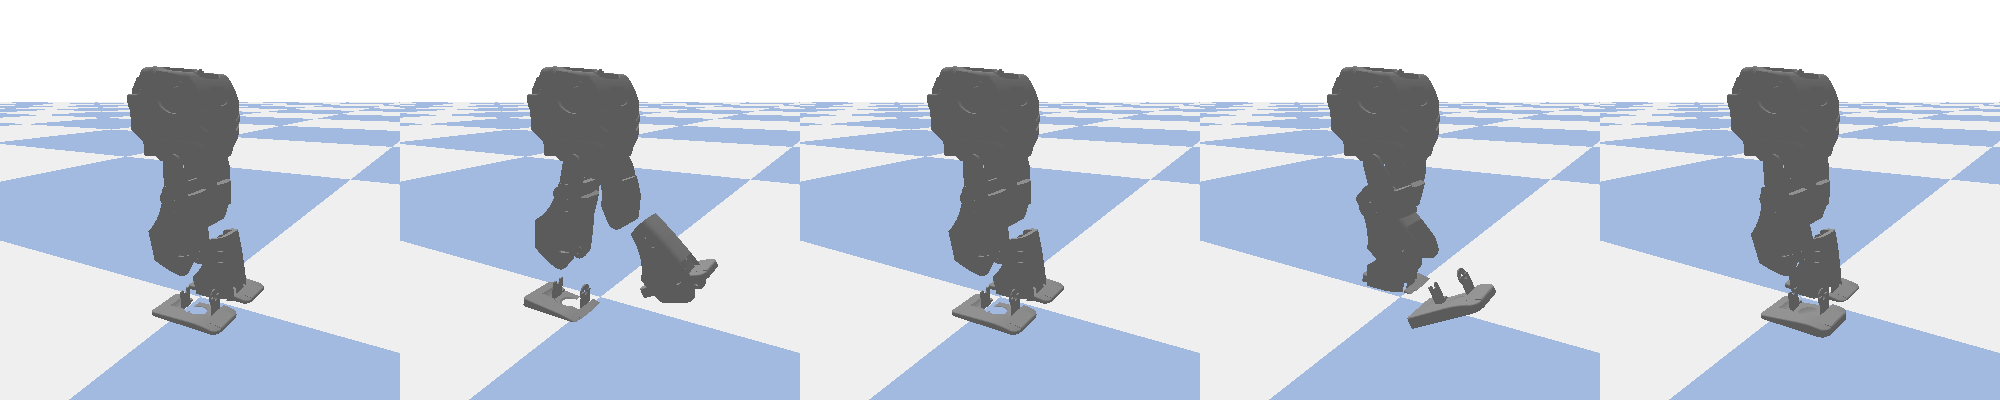
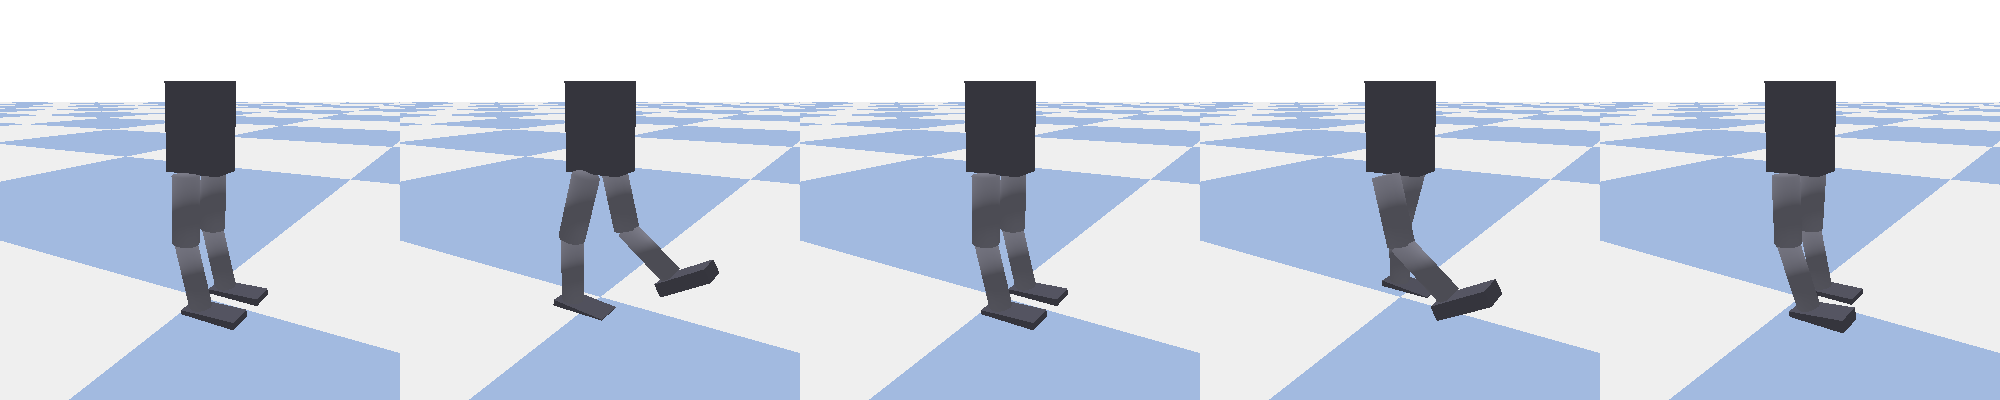
feat: 创建干净外观的URDF模型
- 新建 simple_walking_robot_clean.urdf，使用基础几何体
- 躯干：Box (0.08x0.05x0.12)
- 大腿/小腿：Cylinder
- 脚掌：Box
- 解决原始mesh有洞的问题
- 外观干净整洁，行走动作正常

diff --git a/scripts/debug_colored.py b/scripts/debug_colored.py
@@ -1,0 +1,129 @@
+#!/usr/bin/env python3
+"""
+给机器人每个部件加不同颜色，诊断mesh位置问题
+"""
+import pybullet as p
+import pybullet_data
+import os
+import tempfile
+import numpy as np
+from PIL import Image
+
+PROJECT_ROOT = "/home/vickyleu/ros2_ws/src/ROS2_Walking_Pattern_Generator"
+URDF_FILE = os.path.join(PROJECT_ROOT, "robot_description/models/robotis_op2/urdf/simple_working_robot.urdf")
+OUTPUT_DIR = os.path.join(PROJECT_ROOT, "Records/screenshots")
+
+# 每个link的颜色 (RGBA)
+LINK_COLORS = {
+    'body_link': [1, 0, 0, 1],       # 红色 - 躯干
+    'l_thigh_link': [0, 1, 0, 1],    # 绿色 - 左大腿
+    'l_shin_link': [0, 0, 1, 1],     # 蓝色 - 左小腿
+    'l_foot_link': [1, 1, 0, 1],     # 黄色 - 左脚
+    'r_thigh_link': [1, 0, 1, 1],    # 紫色 - 右大腿
+    'r_shin_link': [0, 1, 1, 1],     # 青色 - 右小腿
+    'r_foot_link': [1, 0.5, 0, 1],   # 橙色 - 右脚
+}
+
+def main():
+    # 修正 URDF 路径
+    with open(URDF_FILE, 'r') as f:
+        content = f.read()
+    content = content.replace('package://robot_description/', 
+                              os.path.join(PROJECT_ROOT, 'robot_description/'))
+    
+    with tempfile.NamedTemporaryFile(mode='w', suffix='.urdf', delete=False) as tmp:
+        tmp.write(content)
+        tmp_urdf = tmp.name
+    
+    # 初始化 PyBullet
+    p.connect(p.DIRECT)
+    p.setAdditionalSearchPath(pybullet_data.getDataPath())
+    p.loadURDF("plane.urdf")
+    
+    robot = p.loadURDF(tmp_urdf, [0, 0, 0.35], useFixedBase=True)
+    
+    # 获取link名称映射
+    link_name_to_idx = {-1: 'base_link'}  # base link
+    for i in range(p.getNumJoints(robot)):
+        info = p.getJointInfo(robot, i)
+        link_name = info[12].decode('utf-8')  # child link name
+        link_name_to_idx[i] = link_name
+        print(f"Link {i}: {link_name}")
+    
+    # 设置颜色
+    for link_idx, link_name in link_name_to_idx.items():
+        if link_name in LINK_COLORS:
+            color = LINK_COLORS[link_name]
+            p.changeVisualShape(robot, link_idx, -1, rgbaColor=color)
+            print(f"  设置 {link_name} 颜色: {color[:3]}")
+    
+    # 设置关节角度（站立姿态）
+    joint_angles = {
+        'l_hip_pitch': 0.0,
+        'l_knee': 0.3,
+        'l_ankle_pitch': 0.15,
+        'r_hip_pitch': 0.0,
+        'r_knee': 0.3,
+        'r_ankle_pitch': 0.15,
+    }
+    
+    for i in range(p.getNumJoints(robot)):
+        info = p.getJointInfo(robot, i)
+        name = info[1].decode('utf-8')
+        if name in joint_angles:
+            p.resetJointState(robot, i, joint_angles[name])
+    
+    p.stepSimulation()
+    
+    # 多角度截图
+    os.makedirs(OUTPUT_DIR, exist_ok=True)
+    
+    views = [
+        ("front", [0.5, 0, 0.25], [0, 0, 0.15]),      # 正面
+        ("side", [0, 0.5, 0.25], [0, 0, 0.15]),       # 侧面
+        ("back_side", [0.3, -0.4, 0.3], [0, 0, 0.15]), # 斜后方（机器人面朝-Y）
+        ("top", [0, 0, 0.8], [0, 0, 0.15]),           # 俯视
+    ]
+    
+    images = []
+    for name, eye, target in views:
+        view_matrix = p.computeViewMatrix(
+            cameraEyePosition=eye,
+            cameraTargetPosition=target,
+            cameraUpVector=[0, 0, 1]
+        )
+        proj_matrix = p.computeProjectionMatrixFOV(fov=50, aspect=1.0, nearVal=0.01, farVal=10)
+        
+        _, _, rgb, _, _ = p.getCameraImage(400, 400, view_matrix, proj_matrix,
+                                           renderer=p.ER_TINY_RENDERER)
+        img = Image.fromarray(np.array(rgb, dtype=np.uint8).reshape(400, 400, 4)[:, :, :3])
+        images.append(img)
+        print(f"截图: {name}")
+    
+    # 拼接4个视角
+    combined = Image.new('RGB', (800, 800))
+    combined.paste(images[0], (0, 0))      # 左上：正面
+    combined.paste(images[1], (400, 0))    # 右上：侧面
+    combined.paste(images[2], (0, 400))    # 左下：斜后方
+    combined.paste(images[3], (400, 400))  # 右下：俯视
+    
+    output_path = os.path.join(OUTPUT_DIR, "debug_colored.png")
+    combined.save(output_path)
+    print(f"\n彩色诊断图保存: {output_path}")
+    
+    # 颜色说明
+    print("\n颜色说明:")
+    print("  红色 = 躯干 (body)")
+    print("  绿色 = 左大腿 (l_thigh)")
+    print("  蓝色 = 左小腿 (l_shin)")
+    print("  黄色 = 左脚 (l_foot)")
+    print("  紫色 = 右大腿 (r_thigh)")
+    print("  青色 = 右小腿 (r_shin)")
+    print("  橙色 = 右脚 (r_foot)")
+    
+    p.disconnect()
+    os.unlink(tmp_urdf)
+
+if __name__ == "__main__":
+    main()
+

diff --git a/scripts/simple_walking_gait.py b/scripts/simple_walking_gait.py
@@ -11,22 +11,13 @@ import numpy as np
 from PIL import Image
 
 PROJECT_ROOT = "/home/vickyleu/ros2_ws/src/ROS2_Walking_Pattern_Generator"
-URDF_FILE = os.path.join(PROJECT_ROOT, "robot_description/models/robotis_op2/urdf/simple_working_robot.urdf")
+# 使用干净的几何体版本URDF
+URDF_FILE = os.path.join(PROJECT_ROOT, "robot_description/models/robotis_op2/urdf/simple_walking_robot_clean.urdf")
 OUTPUT_DIR = os.path.join(PROJECT_ROOT, "Records/screenshots")
 
 def run():
     import pybullet as p
     import pybullet_data
-    
-    # 修正 URDF 路径
-    with open(URDF_FILE, 'r') as f:
-        content = f.read()
-    content = content.replace('package://robot_description/', 
-                              os.path.join(PROJECT_ROOT, 'robot_description/'))
-    
-    with tempfile.NamedTemporaryFile(mode='w', suffix='.urdf', delete=False) as tmp:
-        tmp.write(content)
-        tmp_urdf = tmp.name
     
     # 初始化
     p.connect(p.GUI)
@@ -34,7 +25,7 @@ def run():
     p.setGravity(0, 0, -9.81)
     p.loadURDF("plane.urdf")
     
-    robot = p.loadURDF(tmp_urdf, [0, 0, 0.3], useFixedBase=True)
+    robot = p.loadURDF(URDF_FILE, [0, 0, 0.25], useFixedBase=True)
     
     # 关节索引
     joints = {}
@@ -138,7 +129,6 @@ def run():
     print(f"PNG 保存: {png_path}")
     
     p.disconnect()
-    os.unlink(tmp_urdf)
 
 if __name__ == "__main__":
     print("=" * 50)
